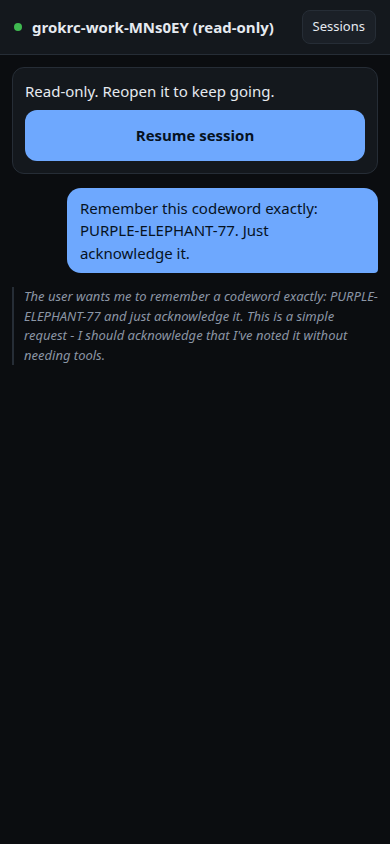
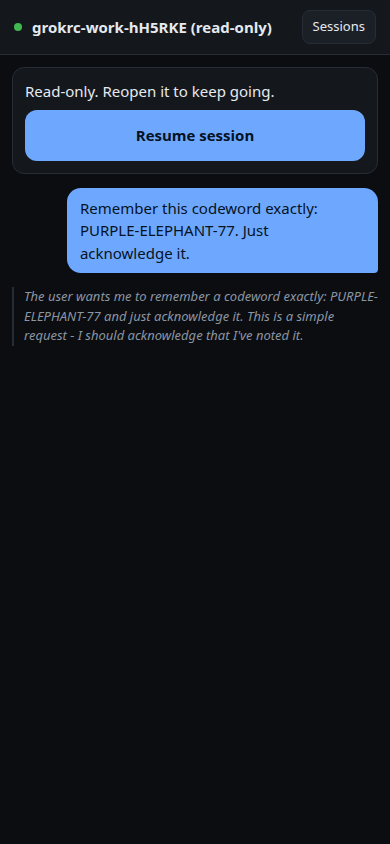
Fix: the hand-back control was destroyed before it could be used
The owner asked where the option to give a session back to the workstation is.
It was nowhere. renderTranscript() replaces the session view wholesale and then
re-adds the affordance for OBSERVED sessions only — hand-back was missing from
that list, so openSession() drew the button and the `history` frame arriving
milliseconds later wiped it.

History replays on open, on reconnect, and immediately after a takeover, which
is exactly the moment someone wants to hand the session back. So in practice
the control shipped invisible.

Same shape as the bug the resume bar already had, on the twin code path. The
comment above that line even explains why the affordance must be re-added —
and then re-adds only one of the two.

  PRE-FIX:  not ok 1,2,3 — 0/3 pass (test/handback.test.ts)
  POST-FIX: ok 1,2,3 — 3/3
  ISOLATED: commenting out only the re-render line returns it to 0/3

Test covers all three replay paths and asserts the inverse too: an observed
session must show resume and never hand-back, so the fix cannot over-correct
into offering a control that read-only sessions cannot honour.

Full suite: 176/176, exit 0.

Changed region(s): [[0.3385, 0.0, 0.7077, 0.0616], [0.0308, 0.4005, 0.2769, 0.4313], [0.7692, 0.3697, 0.8923, 0.4005]]

diff --git a/test/handback.test.ts b/test/handback.test.ts
@@ -1,0 +1,121 @@
+/**
+ * The hand-back affordance must survive a transcript render.
+ *
+ * `renderTranscript()` replaces the whole session view, then re-adds the resume
+ * bar for OBSERVED sessions only. The hand-back bar — the only way to give a
+ * session back to a terminal — was not in that list, so it was destroyed the
+ * moment history arrived.
+ *
+ * History arrives on open, on reconnect, and immediately after a takeover, which
+ * is precisely when someone wants to hand the session back. In practice the
+ * button was never visible: `openSession()` drew it, and the `history` frame that
+ * followed a few milliseconds later wiped it.
+ *
+ * The same shape of bug as `.resume-bar` had, on the twin code path.
+ *
+ * Written before the fix (directive 07). PRE-FIX the first assert fails.
+ */
+import { strict as assert } from 'node:assert';
+import { test, before, after } from 'node:test';
+import { mkdtemp, rm } from 'node:fs/promises';
+import { tmpdir } from 'node:os';
+import { join, resolve } from 'node:path';
+import { chromium, type Browser, type Page } from 'playwright';
+
+const tmp = await mkdtemp(join(tmpdir(), 'grokrc-handback-'));
+process.env.GROKRC_HOME = tmp;
+
+const { AuthStore } = await import('../src/daemon/auth.ts');
+const { SessionManager } = await import('../src/daemon/session-manager.ts');
+const { RemoteControlServer } = await import('../src/daemon/server.ts');
+const { MockTransport } = await import('../src/acp/mock-transport.ts');
+
+let n = 0;
+const auth = new AuthStore();
+await auth.load();
+const sessions = new SessionManager({
+  transportFactory: () => new MockTransport({ sessionId: `hb-${++n}` }),
+});
+const server = new RemoteControlServer({
+  host: '127.0.0.1',
+  port: 0,
+  webRoot: resolve(import.meta.dirname, '../web'),
+  sessions,
+  auth,
+  defaultCwd: '/tmp/demo',
+});
+const { port } = await server.listen();
+const base = `http://127.0.0.1:${port}`;
+
+let browser: Browser;
+let page: Page;
+
+before(async () => {
+  browser = await chromium.launch();
+  const ctx = await browser.newContext({ viewport: { width: 390, height: 844 } });
+  page = await ctx.newPage();
+  const { code } = auth.beginPairing();
+  await page.goto(base);
+  await page.fill('#code', code);
+  await page.click('#pair-go');
+  await page.waitForSelector('#v-list.on', { timeout: 20_000 });
+});
+
+after(async () => {
+  await browser?.close();
+  sessions.closeAll();
+  await server.close();
+  await rm(tmp, { recursive: true, force: true });
+});
+
+test('a session you own offers a way to hand it back', async () => {
+  await page.click('#v-list button.btn-primary');
+  await page.waitForSelector('#v-session.on', { timeout: 20_000 });
+
+  // Drive a turn so history is non-trivial, then force the replay that wipes
+  // the view — exactly what happens right after a takeover.
+  await page.fill('#input', 'hello');
+  await page.click('#send');
+  await page.waitForTimeout(1500);
+
+  const present = await page
+    .waitForSelector('[data-handback]', { timeout: 10_000 })
+    .then(() => true)
+    .catch(() => false);
+
+  assert.equal(
+    present,
+    true,
+    'no hand-back control after the transcript rendered — the only way to return a session to a terminal is gone'
+  );
+});
+
+test('it survives a reconnect, which replays history', async () => {
+  await page.evaluate(() => {
+    (globalThis as unknown as { __rcws?: WebSocket }).__rcws?.close(4000, 'force reconnect');
+  });
+  await page.waitForFunction(
+    () => (globalThis as unknown as { __rcws?: WebSocket }).__rcws?.readyState === 1,
+    undefined,
+    { timeout: 20_000 }
+  );
+  await page.waitForTimeout(1500);
+
+  const present = await page
+    .waitForSelector('[data-handback]', { timeout: 10_000 })
+    .then(() => true)
+    .catch(() => false);
+
+  assert.equal(present, true, 'hand-back control vanished after a reconnect replayed history');
+});
+
+test('an observed session offers resume, never hand-back', async () => {
+  // Guard against over-correcting: a read-only session has nothing to hand back,
+  // and showing the control there would imply it can be driven.
+  const both = await page.evaluate(() => ({
+    handback: !!document.querySelector('[data-handback]'),
+    resume: !!document.querySelector('[data-resume]'),
+  }));
+  assert.equal(both.resume, false, 'an owned session should not show the resume bar');
+  assert.equal(both.handback, true, 'an owned session should show hand-back');
+});

diff --git a/web/app.js b/web/app.js
@@ -564,9 +564,14 @@ function renderTranscript(events) {
   state.thinkingNode = null;
   for (const ev of events) applyEvent(ev, true);
   if (!events.length) renderPlaceholder();
-  // History replaces the transcript wholesale, so the resume affordance has to
-  // be re-added here or it vanishes the moment the log arrives.
+  // History replaces the transcript wholesale, so the bar has to be re-added
+  // here or it vanishes the moment the log arrives. BOTH bars — hand-back was
+  // missing from this list, so the only way to return a session to a terminal
+  // was destroyed milliseconds after openSession() drew it. History replays on
+  // open, on reconnect, and right after a takeover, which is exactly when it is
+  // wanted.
   if (state.current?.mode === 'observed') renderResumeBar(state.current);
+  else if (state.current) renderHandBackBar(state.current);
   scrollDown();
 }
 

diff --git a/README.md b/README.md
@@ -9,7 +9,7 @@ phone — over the agent's own protocol, not a screen scrape.
   <a href="https://github.com/sandeep-alluru/grokrc/actions/workflows/ci.yml"><img alt="CI" src="https://github.com/sandeep-alluru/grokrc/actions/workflows/ci.yml/badge.svg"></a>
   <a href="LICENSE"><img alt="License: MIT" src="https://img.shields.io/badge/license-MIT-blue.svg"></a>
   <img alt="Node" src="https://img.shields.io/badge/node-%E2%89%A520-brightgreen">
-  <img alt="Tests" src="https://img.shields.io/badge/tests-173%20passing-brightgreen">
+  <img alt="Tests" src="https://img.shields.io/badge/tests-176%20passing-brightgreen">
   <img alt="Status" src="https://img.shields.io/badge/status-pre--1.0-orange">
 </p>
 
@@ -240,7 +240,7 @@ Do not expose the port directly to the public internet. Use a Tailnet, or relay 
 - ✅ **End-to-end encrypted through the relay** — verified by tapping every relayed frame
 - ✅ **Shared-backend handoff verified** — two independent clients on one `grok agent leader`,
   the second loading a session created by the first
-- ✅ 173 tests — unit, browser (real Chromium against the real PWA), and real-stack
+- ✅ 176 tests — unit, browser (real Chromium against the real PWA), and real-stack
   checks that drive an actual `grok` process; build, typecheck, and lint green
 
 ![approval screen](docs/screenshots/approval.png)
@@ -344,7 +344,7 @@ relayed client still has to present a valid device token, which is tested.
 ## Development
 
 ```bash
-npm test          # 173 tests: mock suite -> build -> real-stack checks
+npm test          # 176 tests: mock suite -> build -> real-stack checks
 npm run typecheck
 npm run probe     # capture real ACP frames -> docs/captures/
 node --experimental-strip-types src/cli.ts up   # run from source, no build
